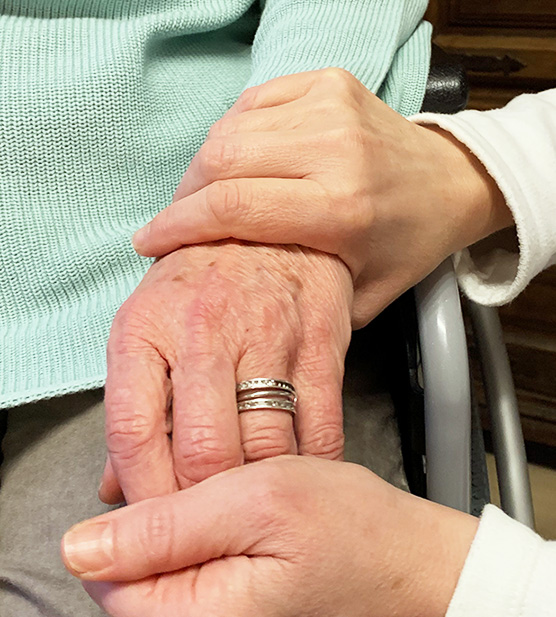
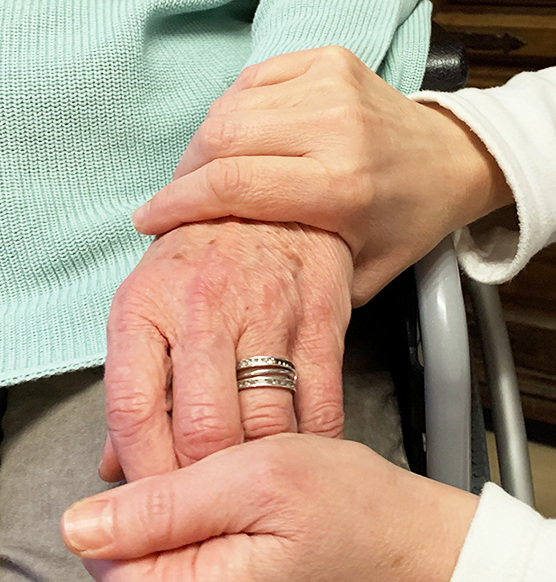
new image

diff --git a/home_care.html b/home_care.html
@@ -105,18 +105,19 @@
 		<div class="container sample-text-area">
 		  <div class="row">
 				<div class="col-md-6">
-					<img class="image-home-care" src="assets/img/gallery/department_man2.jpg" alt="DepartmentMan">
+					<img class="image-home-care" src="assets/img/gallery/about-2.jpg" alt="DepartmentMan">
 				</div>
-			
 			<div class="col-md-6">
-			  <div class="container box_1170 ">
+			  <div class="container box_1170" style="margin-top: 10px;">
 				<h4>Betreuung zu Hause<h4>
 					<p class="sample-text">
 						Wir verbringen Zeit mit der pflegebedürftigen Person und sorgen für Abwechslung im Alltag z.B. durch Gedächtnistraining, diverse Spiele und Gespräche. 
 						Um Angehörigen die Möglichkeit einer Auszeit zu gewähren, bieten wir Ihnen auch die sogenannte Verhinderungspflege an. 
 						<br/>
 						<br/>
-
+						<br/>
+						<br/>
+						<br/>
 						</p> 
 				<h4>Betreuung außer Haus<h4>
 				<p class="sample-text">				

diff --git a/assets/css/style.css b/assets/css/style.css
@@ -5885,10 +5885,7 @@ b,sup,sub,u,del{
   }
 }
 
-.image-home-care {
-	width:540px;
-	height:410px;
-}
+
 
 /* .animation { */
   /* /* animation properties */ */
